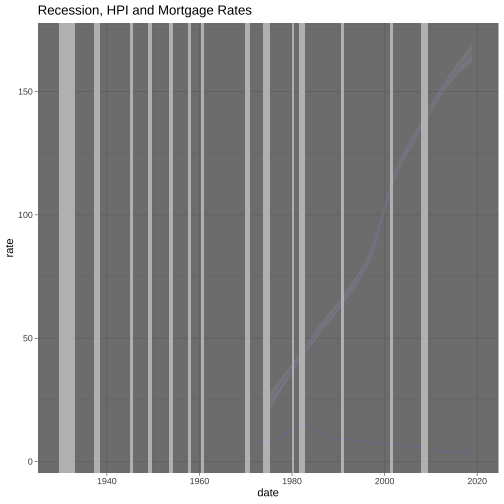
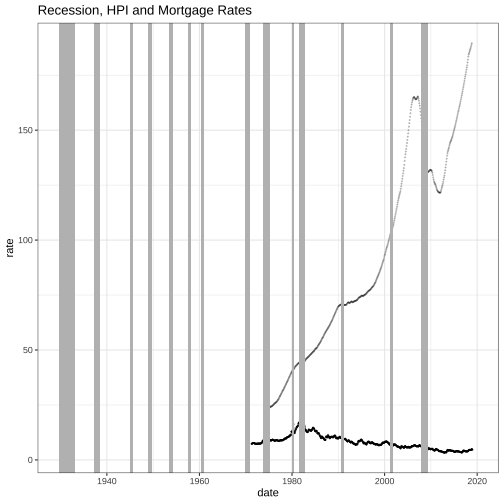
changed the bad plot

diff --git a/presentation.html b/presentation.html
@@ -6,7 +6,7 @@
     <meta name="author" content="Dea Avega Editya" />
     <meta name="author" content="Siyi Li" />
     <meta name="author" content="Xitong He" />
-    <meta name="date" content="2020-10-30" />
+    <meta name="date" content="2020-10-31" />
     <link rel="stylesheet" href="xaringan-themer.css" type="text/css" />
   </head>
   <body>
@@ -71,7 +71,7 @@ Loading the data from the [dugong](https://github.com/etc5521-2020/assignment-1-
 
 - Remove the scales for continuous y aesthetics in secondary axis.
 
-- Use `geom_smooth` function instead of `geom_line`
+- Use `geom_point` function instead of `geom_line`
 
 ]
 ---
@@ -83,13 +83,11 @@ Loading the data from the [dugong](https://github.com/etc5521-2020/assignment-1-
 
 .pull-right[
 
-- Remove the color palette in two line trends
+- Remove the color palette in two line trends and recession period
 
 - Remove the annotation details in mortgage rate and hpi line trends
 
-- Changed the them background from `theme_light()` to `theme_dark`
-
-- Reduce the size of line width and date rectangles
+- Reduce the size of point width,transparency and date rectangles
 ]
 
 
